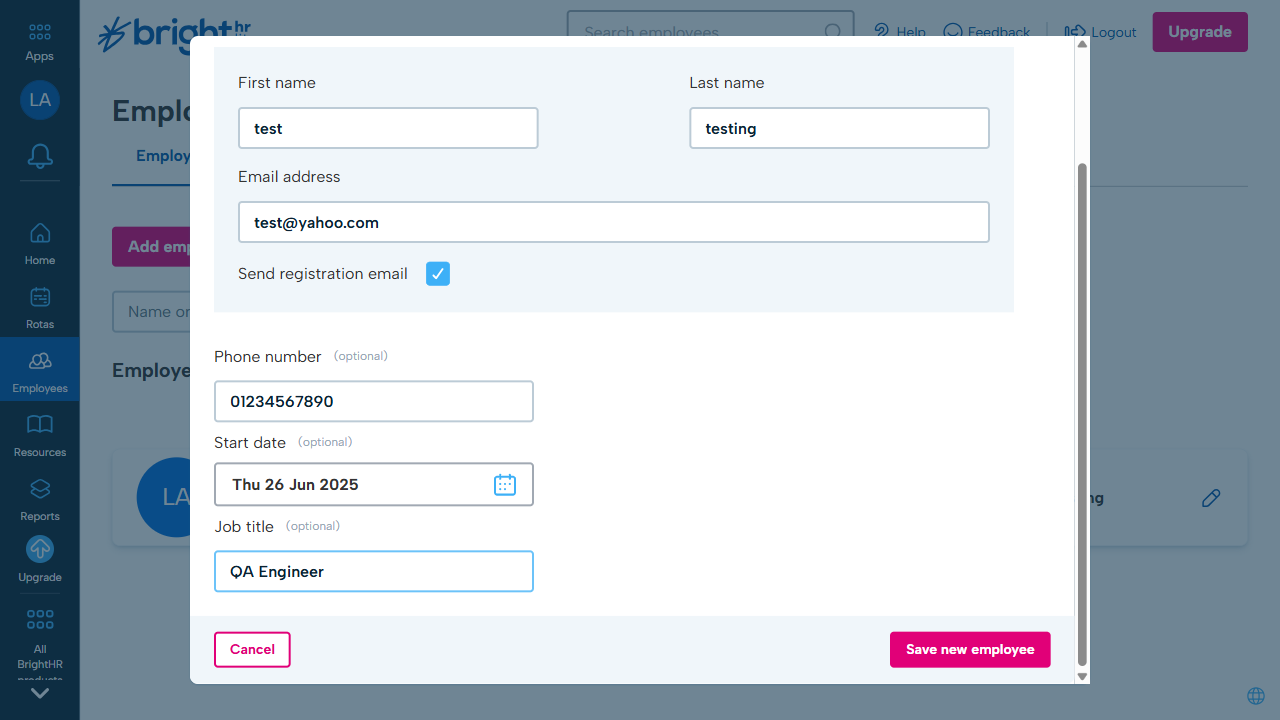
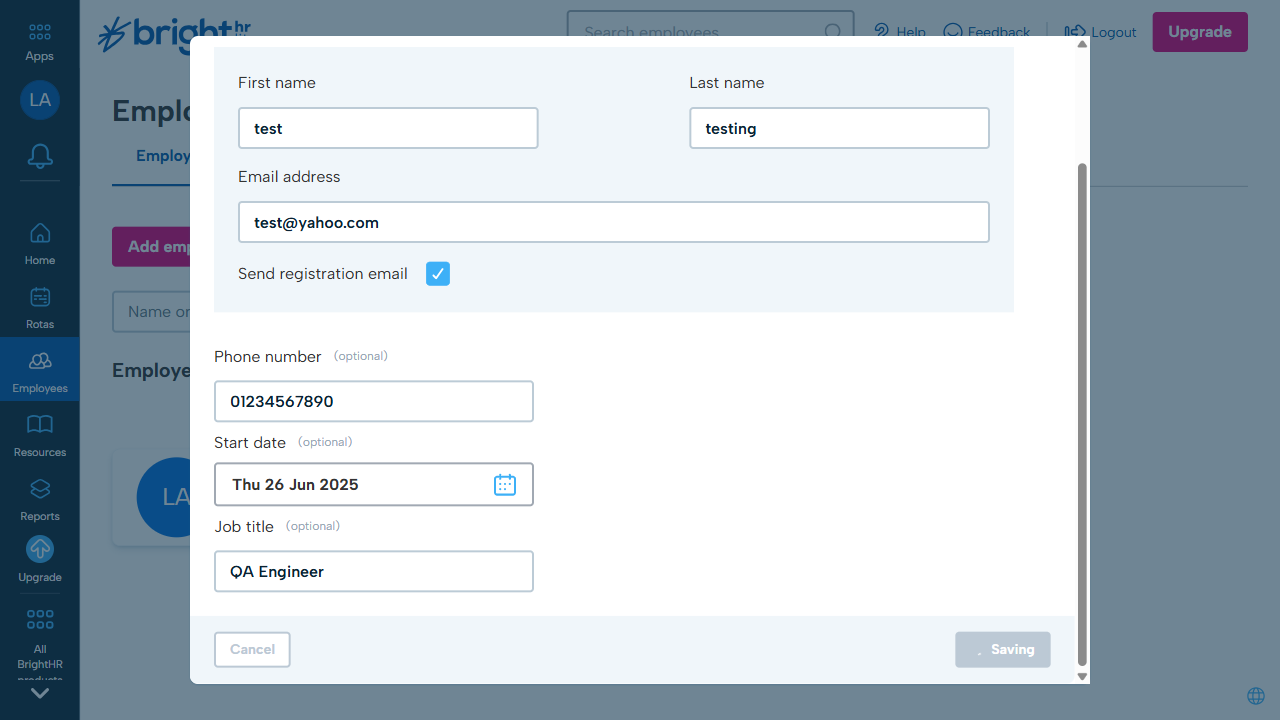
Added screenshot functionality to employee form test

diff --git a/tests/add-employee.spec.js b/tests/add-employee.spec.js
@@ -35,11 +35,11 @@ test('login and add employees', async ({ page }) => {
   await page.click('[data-testid="input-selector"]');
   await page.click(`.DayPicker-Day[${ariaLabel}]`);
   await page.getByRole('textbox', { name: 'Job title (optional)' }).fill('QA Engineer');
-
-  // take a screenshort of the form and save new employee
-  await page.screenshot({ path: 'filled-form.png', fullPage: true });
   await page.getByRole('button', { name: 'Save new employee' }).click();
 
+  // take a screenshort of the form
+  await page.screenshot({ path: 'filled-form.png', fullPage: true });
+  
 // navigate to employee tab and verify that both employees are displayed
   await page.getByRole('button',{name:"Close modal"}).click();
   await expect(page.locator("//div[contains(@class,'flex flex-col w-full h-full')]//div[1]//div[1]//div[2]")).toBeVisible();
